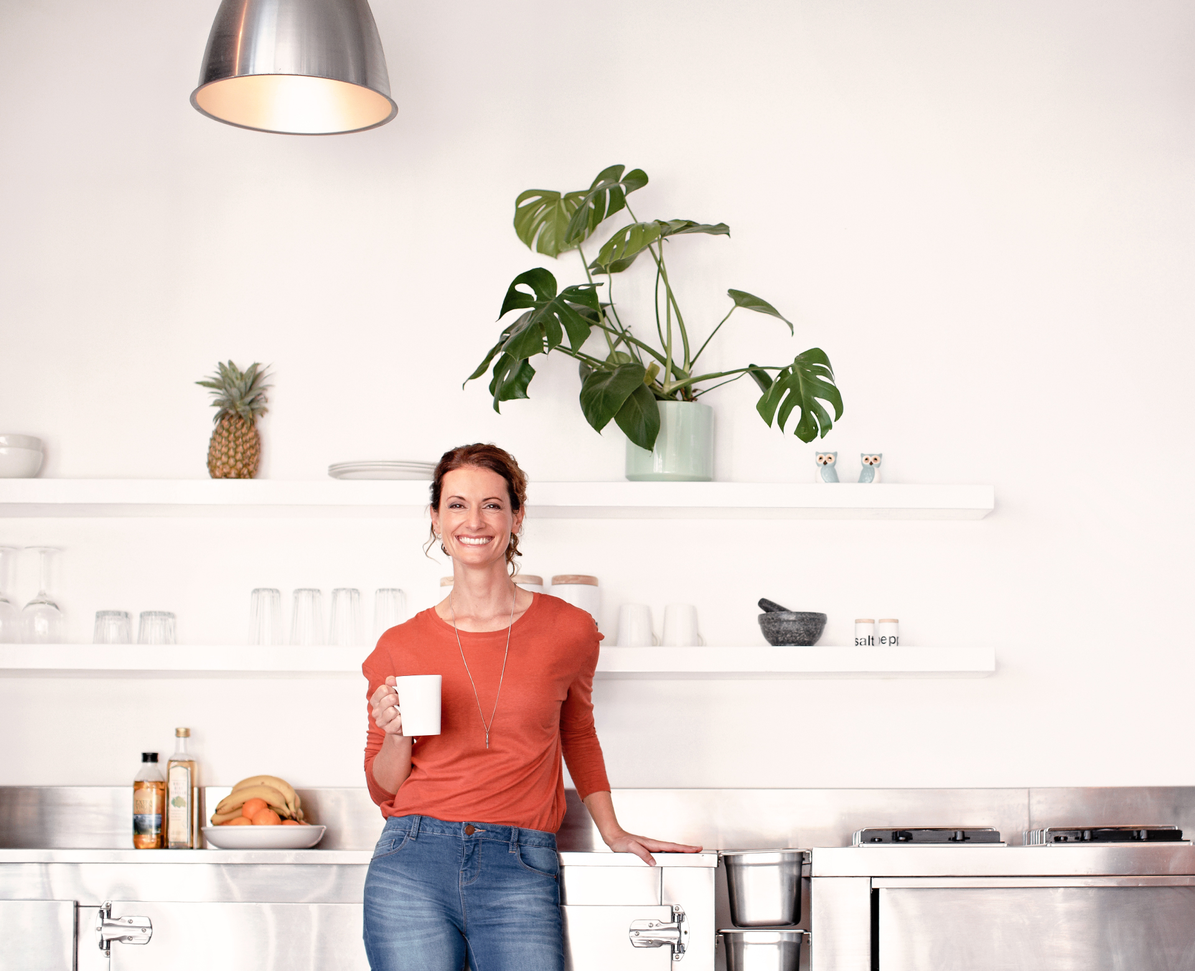
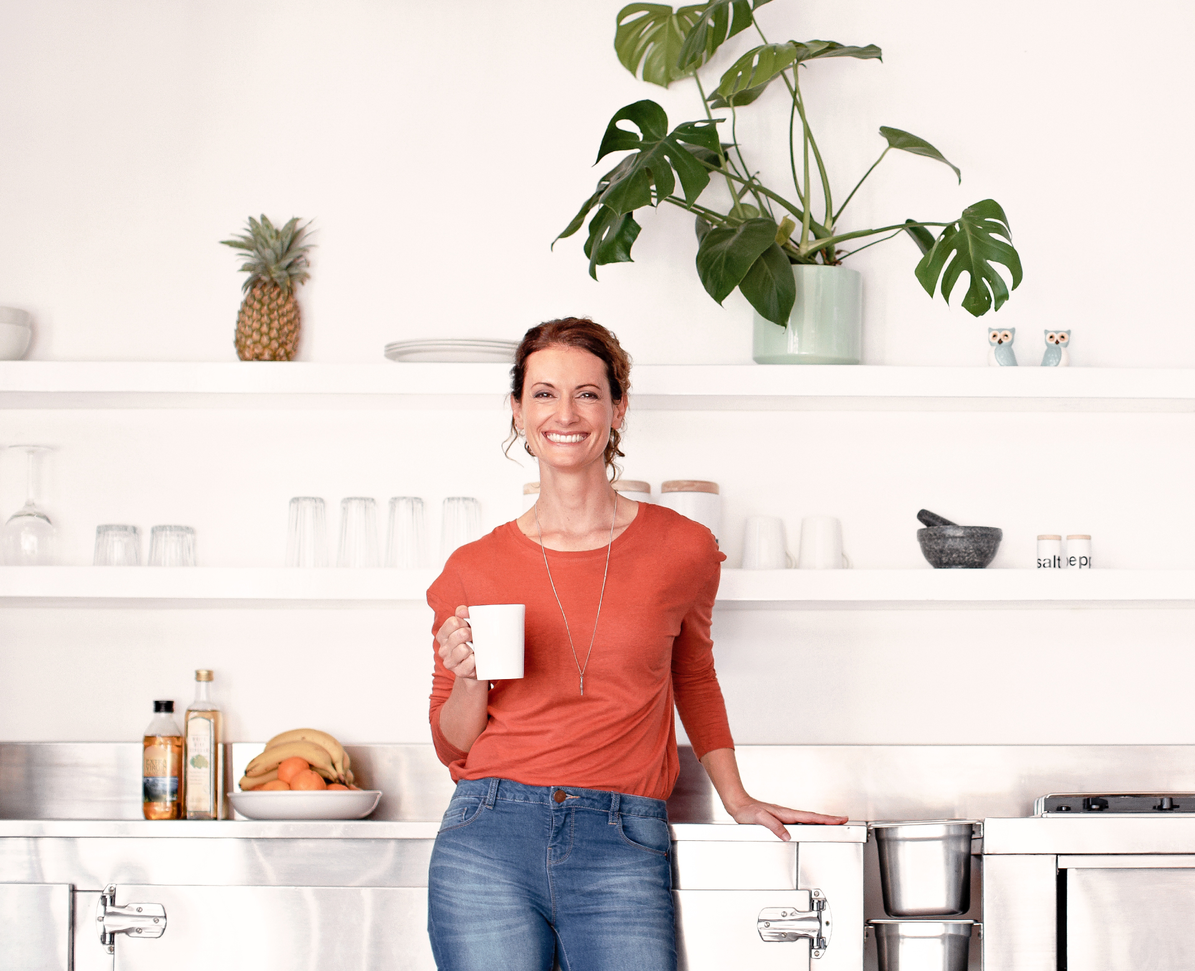
fixed responsiveness of slider

diff --git a/css/main.css b/css/main.css
@@ -1079,19 +1079,30 @@ background-position: right top;}
   }
 }
 
-@media (max-width: 375px) {
+@media (max-width: 568px) {
   .slider-bg {
     visibility: hidden;
     height: 0;
   }
     .carousel-cell{
-      height: 680px;
+      height: 650px;
+  }
+}
+
+@media (max-width: 378px) {
+  .slider-bg {
+    visibility: hidden;
+    height: 0;
+  }
+    .carousel-cell{
+      height: 810px;
   }
 }
 
 
-#peace-of-mind {background-image: url(bgs/home-slider-peace-of-mind.jpg);}
-#best-tenants {background-image: url(bgs/home-slider-best-tenants.jpg);}
+
+#peace-of-mind {background-image: url(bgs/home-slider-peace-of-mind.jpg); background-position: bottom;}
+#best-tenants {background-image: url(bgs/home-slider-best-tenants.jpg); background-position: top;}
 #guarantee-service {background-image: url(bgs/home-slider-guarantee-service.jpg);}
 #property-care {background-image: url(bgs/home-slider-property-care.jpg);}
 
@@ -1109,7 +1120,7 @@ background-position: right top;}
   width: 100%;
   float: left;
   display: inline-block;
-  z-index: 2;
+  z-index: 1;
   background-color: transparent;
 }
 
